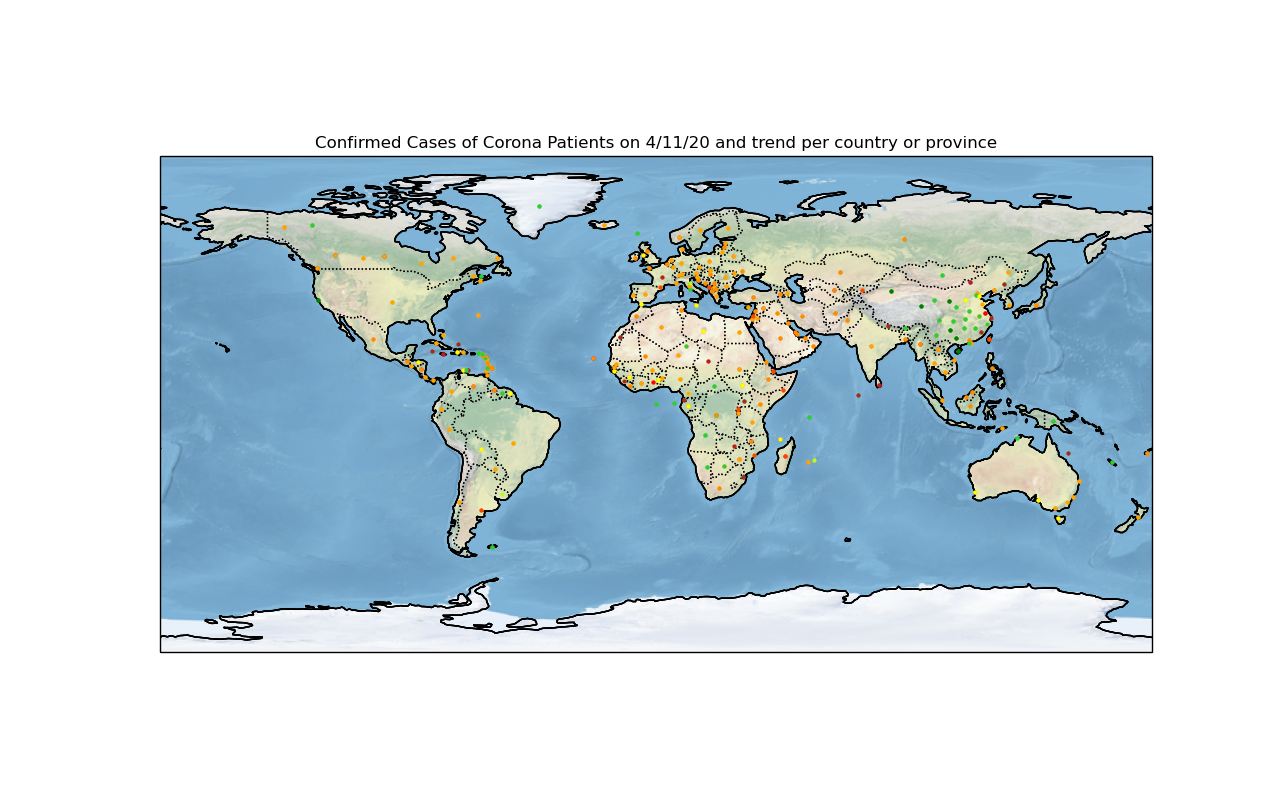
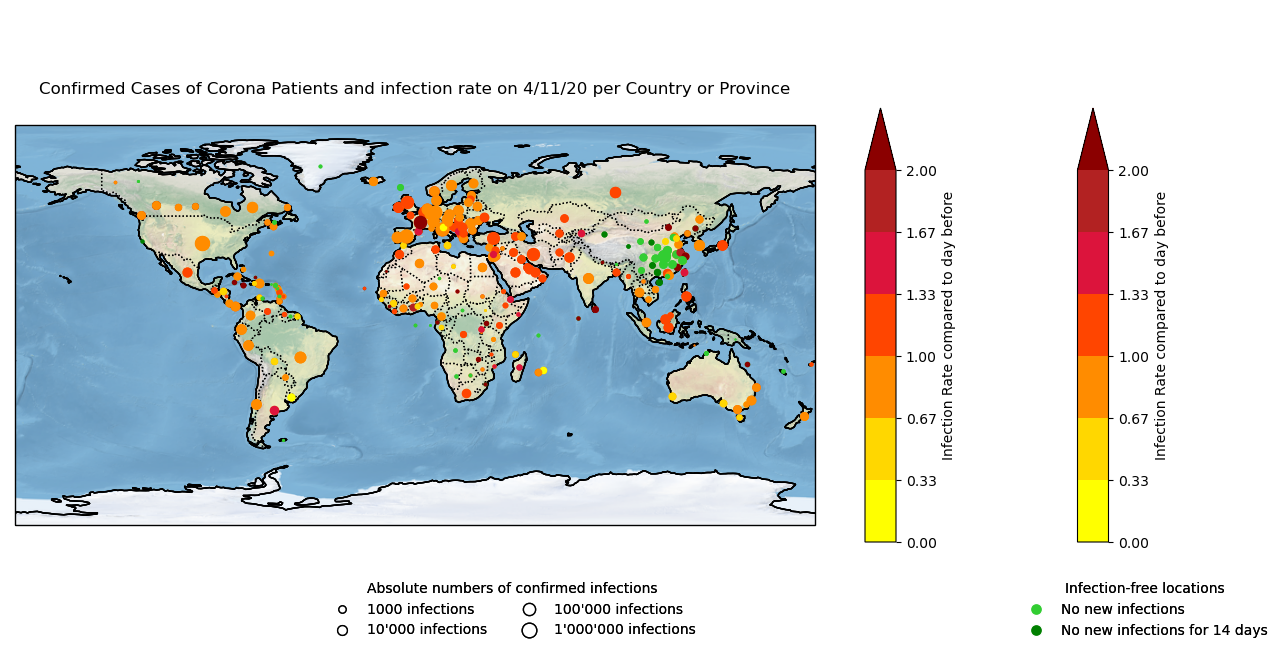
Fertig mit Projekt, keine Animation da unmöglich

diff --git a/Covid_WorldMap.py b/Covid_WorldMap.py
@@ -2,6 +2,8 @@
 
 # Information
 # Import Packages
+import matplotlib
+#matplotlib.use("Agg")
 import matplotlib.pyplot as plt
 import matplotlib.cm as cm
 import matplotlib.image as mpimg
@@ -24,10 +26,14 @@ import urllib.request
 from matplotlib.lines import Line2D
 from matplotlib.widgets import Slider, Button, RadioButtons
 import cartopy.feature as cfeature
+
 #import ffmpeg
 import imageio
 pd.set_option("display.max_rows", None, "display.max_columns", None)
 #Find a solution for 11/12th of April for moving average
+
+#Writer = animation.writers['ffmpeg']
+#writer = Writer(fps=15, metadata=dict(artist='Me'), bitrate=1800)
 
 def datetoheader(gregorian_date):
     gregorian_date_string = str(gregorian_date)
@@ -339,6 +345,7 @@ print("Datframe for new cases ratio was created")
 for state in state_list:
     df_world_threedayaverage.at[state, '4/13/20'] = 0
 
+fig = plt.figure(num="Corona Map", figsize=(12.8, 6.5))
 corona_maps_list = []
 colors_list=['yellow','gold','darkorange','orangered', 'crimson','firebrick','darkred']
 bounds = (0,0.33,0.67,1,1.33,1.67,2)
@@ -439,15 +446,15 @@ for date_map in date_list_adjusted:
                title='Absolute numbers of confirmed infections',
                frameon=False)
 
-
-
+    plt.tight_layout(pad=1.08)
     #plt.savefig("/Users/evaammann/Desktop/Corona_Maps/CoronaMap_{}".format(date_map_index),dpi=300)
     #plt.savefig("CoronaMap_{}".format(date_map_index), dpi=100)
     #print("Image Saved for {}".format(date_map))
     #corona_map_png = mpimg.imread("CoronaMap_{}.png".format(date_map_index))
-    #corona_map_imshow = plt.imshow(corona_map_png, animated = True)
-    #corona_maps_list.append([corona_map_imshow])
-    plt.tight_layout(pad=1.08)
+    #corona_map_imshow = plt.imshow(corona_map_png)
+
+    #corona_maps_list.append(corona_map_imshow,)
+
     #plt.show()
 
     plt.show(block=False)
@@ -458,94 +465,15 @@ for date_map in date_list_adjusted:
 #print(corona_maps_list)
 #print("Start the Animation")
 #FFWriter = animation.FFMpegWriter(fps=20)
-
-#Writer = animation.writers['ffmpeg']
-#writer = Writer(fps=15, metadata=dict(artist='Me'), bitrate=1800)
-#fig_anim = plt.figure(num="Corona Map", figsize=(12.8, 8))
-#anim = animation.ArtistAnimation(fig=fig_anim, artists=corona_maps_list)
+#fig_anim = plt.figure(num="Corona Map", figsize=(12.8, 6.5))
+#anim = animation.ArtistAnimation(fig=fig, artists=corona_maps_list,interval=50, repeat_delay=3000,
+                                   #blit=True)
 #plt.show()
-#anim.save('Corona Map Video.mp4',writer=writer)
 
 
-def corona_map(date_map):
-    lat = df_world_threedayaverage['Lat']
-    lon = df_world_threedayaverage['Lon']
-    threedayaverage_map = df_world_threedayaverage[date_map]
-    print(type(threedayaverage_map))
-    s_linear = threedayaverage_map.astype('float64')
-    print(type(s_linear))
-    s_log = np.log(s_linear)
-    s_square = np.square(s_log)
-    print(type(s_square))
-    masked_threedayaverage = ma.masked_equal(threedayaverage_map,0)
-    #threedayaverage_map_log = float(math.log(threedayaverage_map))
-    newly_infected_map = df_world_new_cases[date_map]
-    new_infection_rate_map = df_world_change_cases[date_map]
-    fig = plt.figure(num="Corona Map", figsize=(12.8, 8))
-    ax = plt.axes(projection=ccrs.PlateCarree())
-    ax.add_feature(cfeature.LAND)
-    ax.add_feature(cfeature.OCEAN)
-    ax.add_feature(cfeature.COASTLINE)
-    ax.add_feature(cfeature.BORDERS, linestyle=':')
-    ax.coastlines()
-    ax.set_global()
-    ax.stock_img()
-    #norming the colorbar
-    divnorm = colors.DivergingNorm(vmin = 0, vcenter = 1, vmax = 2)
-    #adding limegreen to the hot_r colormap
-    hot_r = cm.get_cmap('hot_r', 256)
-    newcolors = hot_r(np.linspace(0, 1, 256))
-    #limegreen = np.array([0, 255 / 256, 0, 1])
-    #newcolors[:5, :] = limegreen
-    #newcolors2 = newcolors[:-10]
-    #newcmp = ListedColormap(newcolors2)
+#plt.show()
+#anim.save('Corona Map Video.mp4', writer=writer)
 
-    plt.scatter(lon, lat, transform=ccrs.PlateCarree(),
-        label=None, s= s_square, c=new_infection_rate_map, cmap='YlOrRd',norm = divnorm,linewidth=0,zorder=3)
-    #if 0 new cases make limegreen:
-    for location in country_and_province:
-        confirmed_cases_three_day_average = df_world_threedayaverage.at[location,date_map]
-        new_cases_today = df_world_new_cases.at[location,date_map]
-        if confirmed_cases_three_day_average > 0:
-            if new_cases_today == 0:
-                marker_size = math.log(confirmed_cases_three_day_average)
-                marker_color = 'greenyellow'
-                zero_infections_streak = 0
-                print("We have 0 new cases on {} in {}!".format(date_map,location))
-                date_now_index = date_list_adjusted.index(date_map)
-                date_tomorrow_index = date_now_index + 1
-                # if 14 days no new cases make dark green:
-                #for date_counter in date_list_adjusted[:date_tomorrow_index]:
-                    #newly_infected = df_world_new_cases.at[location,date_counter]
-                    #if newly_infected == 0:
-                        #zero_infections_streak = zero_infections_streak + 1
-                    #else:
-                        #zero_infections_streak = 0
-                    #if zero_infections_streak >= 14:
-                        #marker_color = "green"
-                plt.plot(df_world_threedayaverage.at[location, 'Lon'], df_world_threedayaverage.at[location, 'Lat'],
-                         color=marker_color, marker='o', markersize=marker_size, transform=ccrs.PlateCarree(), zorder =5)
-    plt.tight_layout(pad=1.08)
-    plt.axis(aspect='equal')
-    plt.xlabel('longitude')
-    plt.ylabel('latitude')
-    plt.colorbar(label='Relative new Corona Cases on {}'.format(date_map))
-    plt.show(block = False)
-    plt.pause(0.5)
-    plt.close()
-    plt.show()
-
-#for date in date_list_adjusted:
-    #corona_map(date)
-
-#for date in date_list_adjusted:
-    #corona_map_single_plot(date)
-#corona_map_single_plot('4/10/20')
-#corona_map_single_plot('4/11/20')
-#corona_map_single_plot('4/12/20')
-#corona_map_single_plot('4/13/20')
-#corona_map_single_plot('4/14/20')
-#corona_map_single_plot('4/15/20')
 
 
 
